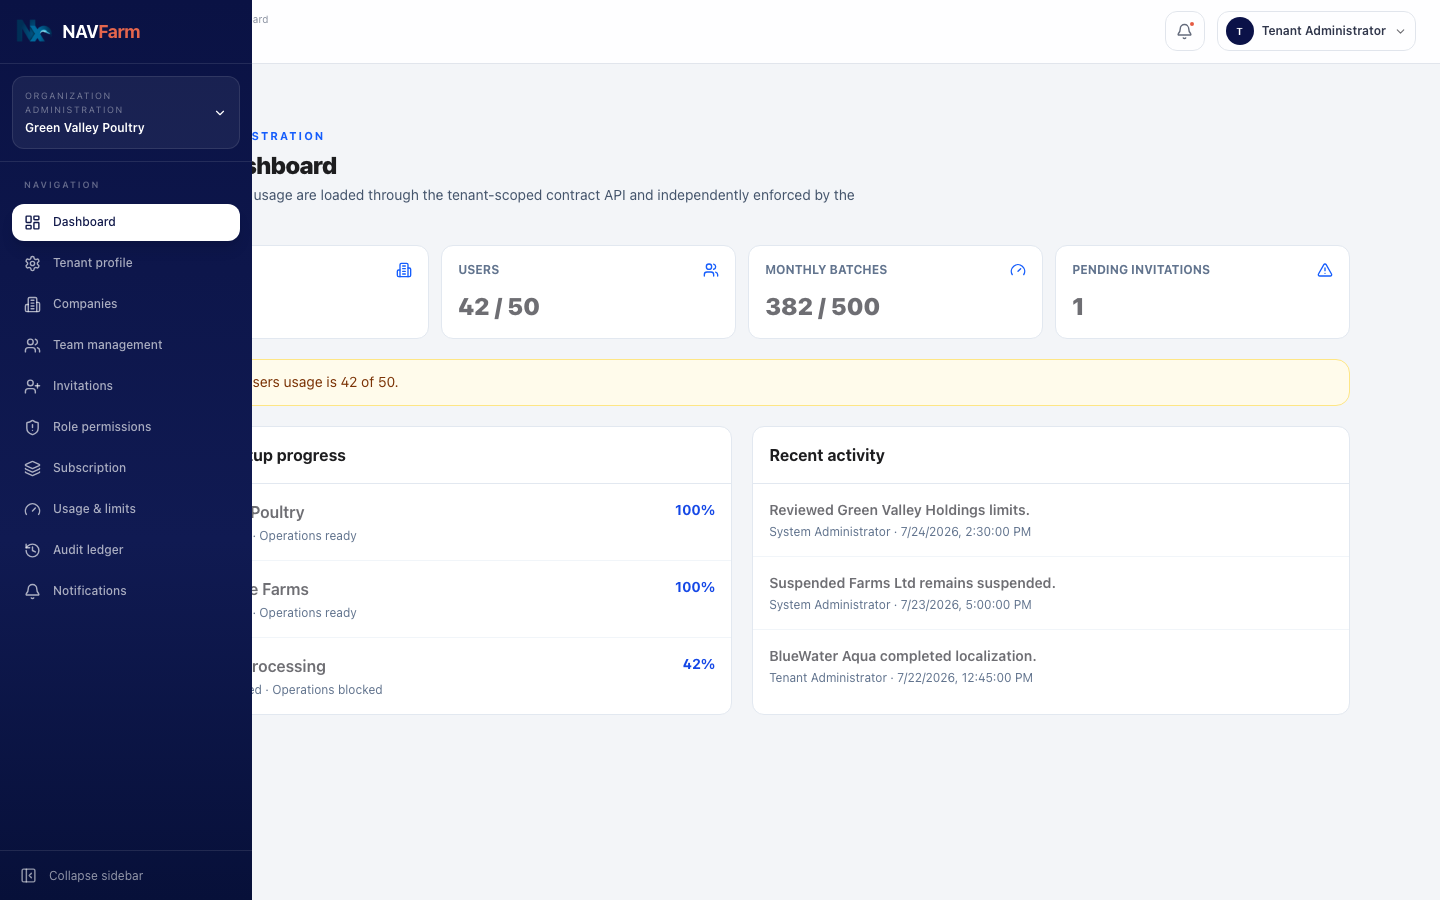
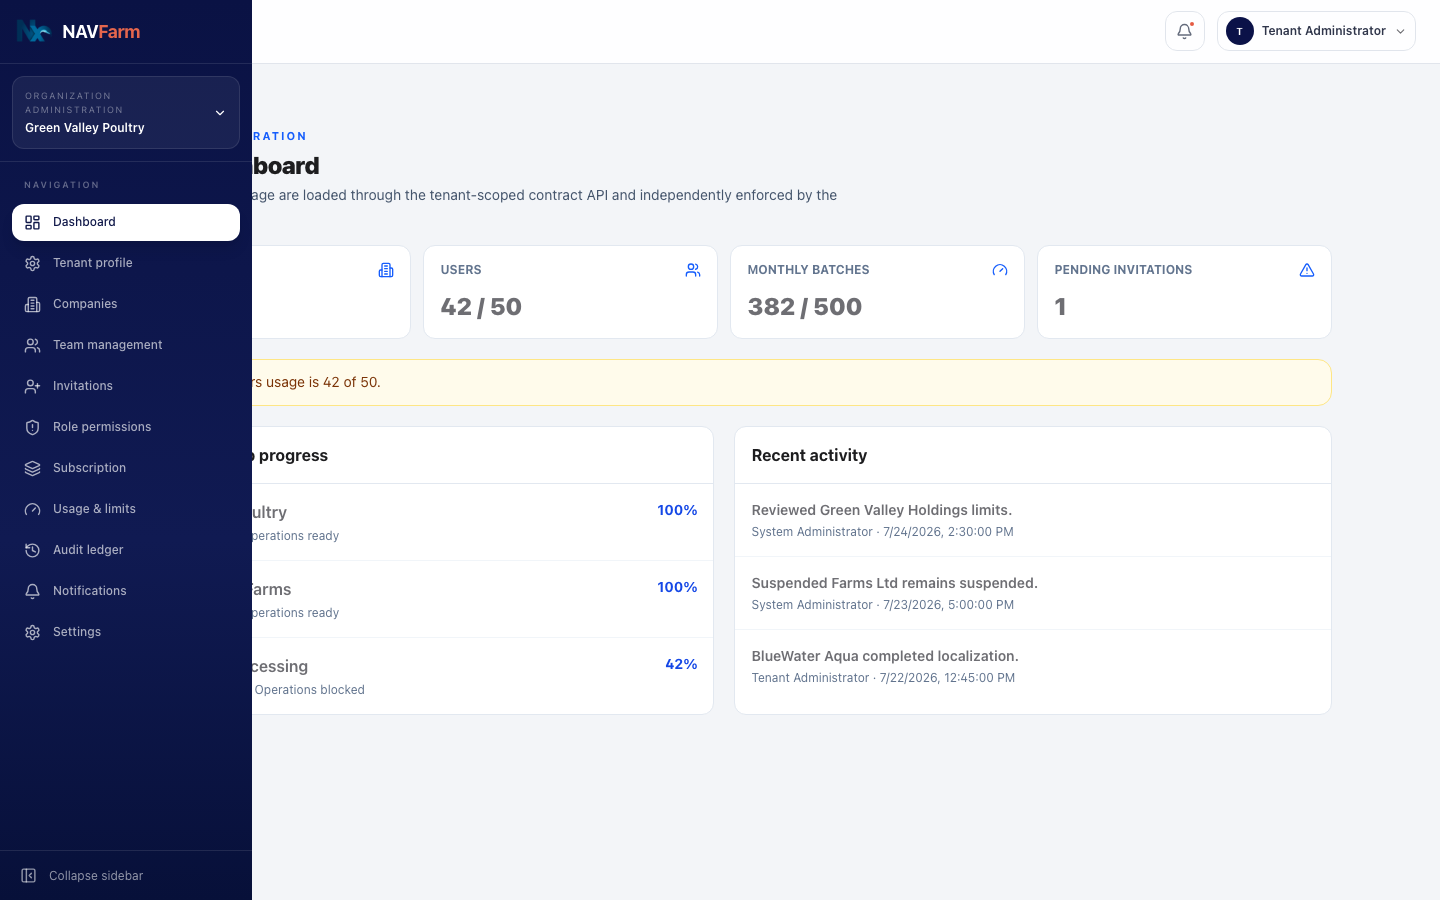
docs(web): complete phase 9.3 scope evidence

diff --git a/docs/api-contract/endpoint-screen-matrix.md b/docs/api-contract/endpoint-screen-matrix.md
@@ -45,10 +45,11 @@ This matrix maps implemented web screens and actions to required API endpoints. 
 | `/{company}/accounting/chart-of-accounts` | COA | `/api/v1/companies/{companyId}/accounting/accounts` | GET/POST/PATCH | `finance.view/manage` | `accountSchema` | `accountSchema[]`/`accountSchema` | Empty tree/errors | `phase3-repository.ts` |
 | `/{company}/accounting/gl-mappings` | GL mappings | `/api/v1/companies/{companyId}/accounting/gl-mappings` | GET/POST/PATCH | `finance.view/manage` | `glMappingSchema` | `glMappingSchema[]`/`glMappingSchema` | Completeness/error cards | `phase3-repository.ts` |
 | `/{company}/accounting/costing` | Costing config | `/api/v1/companies/{companyId}/accounting/costing` | GET/PATCH | `finance.view/manage` | partial `costingConfigurationSchema` | `costingConfigurationSchema` | Warnings for BIO_ASSET | `phase3-repository.ts` |
-| `/{company}/accounting/readiness` | Accounting readiness | `/api/v1/companies/{companyId}/accounting/readiness` | GET | `company.view` | none | `operationsReadinessSchema` | Operations ready/blocked | `phase3-repository.ts` |
+| `/{company}/accounting/readiness` | Company accounting readiness | `/api/v1/companies/{companyId}/accounting/readiness` | GET | `company.view` | none | `operationsReadinessSchema` | Accounting configuration ready/incomplete | `phase3-repository.ts` |
 | `/{company}/workspaces` | List/select workspaces | `/api/v1/tenants/{tenantId}/companies/{companyId}/workspaces` | GET | tenant admin or explicit workspace membership | none | `workspaceSchema[]` | Loading, retry, empty/access state | `mock-repository.ts` |
 | `/{company}/workspaces/new` | Create workspace | `/api/v1/tenants/{tenantId}/companies/{companyId}/workspaces` | POST | `canManageWorkspaces` | `workspaceCreateSchema` | `workspaceSchema` | Field/error/saving states | `mock-repository.ts` |
 | `/{company}/workspaces/{workspace}` | Detail/edit/readiness/members | `/api/v1/companies/{companyId}/workspaces/{workspaceId}`, `/readiness`, `/members` | GET/PATCH/POST | explicit workspace view; tenant admin for mutation | workspace update/member schemas | workspace/readiness/member schemas | Loading, retry, empty members | `mock-repository.ts` |
+| shell context switcher | Select Company administration or a workspace | `/api/v1/auth/context` | PUT | authorized tenant/company/workspace membership | full `{ tenantId, companyId, workspaceId }` tuple; `workspaceId: null` for company mode | `authSessionSchema` | Searchable authorized hierarchy; atomic context change | `mock-repository.ts` |
 | canonical workspace dashboard/batches | Bootstrap/list/create/save/transition | `/api/v1/tenants/{tenantId}/companies/{companyId}/workspaces/{workspaceId}/operational-bootstrap`, `/batches`, `/batches/{batchId}/transitions` | GET/POST/PUT | workspace batch capabilities | operational schemas | operational schemas | Workspace-isolated loading/errors | `operational-repository.ts` |
 | canonical workspace operations/QC/QR | Daily operations, QC disposition, QR packs | same scoped root plus `/operations`, `/quality-lots`, `/qr-packs` | GET/POST/PUT | workspace operation/QC/traceability capabilities | operational schemas | operational schemas | Mutation controls follow workspace role | `operational-repository.ts` |
 | canonical workspace resources/costing/reports | Resources/usages, costing, journals, variances, summary | same scoped root plus `/resources`, `/resource-usages`, `/costing`, `/journals`, `/variances`, `/reports/summary` | GET/POST/PUT | workspace resource/report capabilities | operational schemas | operational schemas | Empty collections and typed errors | `operational-repository.ts` |

diff --git a/docs/api-contract/authorization-matrix.md b/docs/api-contract/authorization-matrix.md
@@ -53,9 +53,9 @@ Current granular permissions:
 
 | Role | Scope | Permissions | Confirmed behavior |
 |---|---|---|---|
-| Company Admin (`ADMIN`) | Company | all company permissions | Used by multi-company and MFA demo users. Company scoped only. |
+| Company Admin (`ADMIN`) | Company | company configuration/accounting defaults | Used by multi-company and MFA demo users. Does not itself grant workspace operations. |
 | Super Admin (`SUPER_ADMIN`) | Company | all company permissions | Used for onboarding admin company setup. |
-| Operations Manager (`FARM_MANAGER`) | Company | `company.view`, `batches.view`, `batches.create`, `batches.approve`, `operations.create`, `costs.view`, `quality.view`, `quality.manage`, `traceability.view`, `resources.view`, `resources.manage`, `reports.export` | Can execute Phase 7 batch/operation/QC/QR/close/report flow in Green Valley. No finance view/manage. |
+| Operations Manager (`FARM_MANAGER`) | Company membership plus assigned workspace | `company.view`; operational permissions are resolved from workspace membership | Can execute the Phase 7 flow only in assigned workspaces. No finance view/manage. |
 | Accountant (`ACCOUNTANT`) | Company | `company.view`, `batches.view`, `costs.view`, `finance.view`, `finance.manage`, `reports.export`, `audit.view` | Used by tenant admin active company membership, but tenant-admin setup rights are tenant-scoped. |
 | Auditor (`AUDITOR`) | Company | `company.view`, `batches.view`, `costs.view`, `finance.view`, `quality.view`, `traceability.view`, `resources.view`, `reports.export`, `audit.view` | Read-oriented access to accounting/masters tests; no create controls. |
 | Supervisor (`SUPERVISOR`) | Company | `company.view`, `batches.view`, `batches.create`, `operations.create`, `quality.view`, `traceability.view`, `resources.view` | Existing role, not a Phase 7.1 demo account. |
@@ -81,6 +81,6 @@ Current granular permissions:
 | Platform | `/admin/*` | Require `SYSTEM_ADMIN`; otherwise 403. |
 | Tenant | `/console/*` | Require active tenant and `tenant.view`. |
 | Company | `/{company}/settings`, `/masters`, `/accounting`, `/setup` | Require active company membership and company configuration capability. |
-| Workspace | `/{company}/workspaces/{workspace}/*` | Require matching tenant/company/workspace membership and active context. |
+| Workspace | `/{company}/workspaces/{workspace}/{dashboard|batches|operations|quality|traceability|resources|costing|reports|masters|settings}` | Require matching tenant/company/workspace membership and active context. |
 | Operational mutations | workspace batch/QC/QR/resources close/write routes | Require the relevant workspace capability; tenant/company administration alone is insufficient. |
 | Configuration mutations | setup, masters, NOB/LOB, accounting config | Require `company.manage` or explicit tenant-admin setup authority. |

diff --git a/docs/permission-matrix.md b/docs/permission-matrix.md
@@ -4,18 +4,13 @@ Navigation is derived from permissions, explicit workspace membership, and enabl
 navigation is only a UX decision; mock mutations separately enforce permission
 checks and a production backend must do the same.
 
-| Role | Batches create/approve | Costs | Finance | User/role admin | Export | Operational entry |
-| --- | --- | --- | --- | --- | --- | --- |
-| System administrator | No implicit workspace access | No implicit workspace access | Platform oversight only | Platform administration | Platform audit | No implicit workspace access |
-| Tenant administrator | Only with workspace role | Only with workspace role | Company configuration | Tenant/company/workspace administration | Audit export | Only with workspace role |
-| Company super administrator | Yes / Yes | Yes | Full | Full | Yes | Yes |
-| Company administrator | Yes / Yes | Yes | Full | Full except immutable super admin | Yes | Yes |
-| Farm manager | Yes / Yes | Own farms | No | No | Yes | Yes |
-| Accountant | No / No | All | Full | No | Yes | No |
-| Auditor | No / No | Read-only | Read-only | No | Yes | No |
-| Supervisor | Yes / No | Hidden | No | No | No | Yes |
-| Viewer | No / No | Hidden | No | No | No | No |
-| Custom | Granted | Granted | Granted | Granted | Granted | Granted |
+| Identity | Company configuration | Company accounting | Workspace operations |
+| --- | --- | --- | --- |
+| System administrator | Platform oversight only | No implicit company authority | No implicit workspace access |
+| Tenant administrator | Tenant, company, workspace and membership management | Per documented company configuration rule | Only with an explicit workspace role |
+| Company administrator roles | According to company permissions | According to `finance.view/manage` | No automatic access; requires workspace membership |
+| Workspace Manager | No implicit company configuration | No implicit company accounting | Assigned workspace capabilities, including permitted mutations |
+| Workspace Viewer | No implicit company configuration | No implicit company accounting | Assigned workspace read capabilities only |
 
 ## Phase 3 configuration access
 
@@ -43,6 +38,11 @@ require `finance.view` or `company.manage`; accounting mutations require
 `company.manage` is configuration authority and never grants these operational
 capabilities. Switching company clears workspace context; switching workspace
 changes the operational partition.
+
+Navigation and mutations use the same resolver: company permissions are read
+from the active company membership, while operational permissions are read
+only from the active workspace membership. `workspaceType`, enabled modules and
+that permission set jointly filter workspace navigation.
 
 Canonical permission identifiers are defined in
 `apps/web/src/contracts/api.ts`; role defaults and permission evaluation are in

diff --git a/docs/frontend-route-map.md b/docs/frontend-route-map.md
@@ -29,7 +29,9 @@
   `/console/companies/new`, `/console/companies/{companyId}`, `/console/users`,
   `/console/invitations`, `/console/roles`, `/console/subscription`,
   `/console/usage`, `/console/audit`, `/console/notifications`.
-- Company configuration: `/settings`, `/settings/{section}`, `/{company}/setup/{step}`,
+- Company administration: `/{company}/overview`, `/{company}/workspaces`,
+  `/{company}/setup`, `/{company}/members`, `/{company}/readiness`,
+  `/{company}/settings`, `/{company}/settings/{section}`, `/{company}/setup/{step}`,
   `/{company}/masters`, `/{company}/masters/{resource}`,
   `/{company}/masters/{resource}/import`,
   `/{company}/settings/business-structure`,
@@ -39,7 +41,7 @@
 - Workspace administration: `/{company}/workspaces`,
   `/{company}/workspaces/new`, and `/{company}/workspaces/{workspace}`.
 - Canonical workspace operations:
-  `/{company}/workspaces/{workspace}/{dashboard|batches|operations|quality|traceability|resources|costing|reports}`.
+  `/{company}/workspaces/{workspace}/{dashboard|batches|operations|quality|traceability|resources|costing|reports|masters|settings}`.
 
 Company setup step routes are `profile`, `address`, `contacts`,
 `localization`, `accounting`, `modules`, `admin`, `team`, `chart-of-accounts`,
@@ -49,11 +51,18 @@ Compatibility redirects: `/operator` -> `/admin/masters`; `/organization` and
 `/tenant-admin` -> `/console/dashboard`; `/admin` and `/console` redirect to
 their dashboards.
 
-Legacy company operational routes `/{company}/{dashboard|batches|operations|quality|traceability|resources|costing|reports}`
+`/{company}/dashboard` redirects to the canonical company administration
+overview at `/{company}/overview`. Other legacy company operational routes
+`/{company}/{batches|operations|quality|traceability|resources|costing|reports}`
 are resolvers only. One accessible workspace redirects to its canonical route,
 multiple accessible workspaces redirect to `/{company}/workspaces`, and no
 accessible workspace renders an explicit setup/access state. They never infer
 a workspace from stale browser state.
+
+The shell has distinct platform, tenant, company-administration and workspace
+navigation models. Company mode never renders operational navigation. Workspace
+mode is derived only from a canonical workspace URL plus the matching active
+workspace membership.
 
 The static `masters/nobs` and `masters/lobs` routes open the company
 business-structure workspace. Unknown master resources return 404.

diff --git a/docs/demo-account-scenarios.md b/docs/demo-account-scenarios.md
@@ -8,7 +8,7 @@ All accounts below use `Demo123!`. They exist only when `NAVFARM_API_MODE=mock`;
 | `tenant@navfarm.demo` | Tenant console, two companies, company/workspace setup and accounting configuration; no workspace membership or operational mutation permission. |
 | `manager@navfarm.demo` | Green Valley Poultry → Poultry Operations workspace: batches, operations, QC, QR, resources and reports. |
 | `viewer@navfarm.demo` | Green Valley → Poultry Operations view-only workspace; create/manage controls and workspace mutation API calls are denied. |
-| `multi@navfarm.demo` | Explicit membership across three companies and four workspaces; Green Valley contains Poultry Operations and Feed Mill. Context persists in the server session. |
+| `multi@navfarm.demo` | Explicit company selection followed by workspace selection. Green Valley contains Poultry Operations and Feed Mill; the hierarchical switcher can return to Company administration and changing company clears the old workspace. |
 | `mfa@navfarm.demo` | MFA verification before any application session; completion returns Poultry Operations membership/context. Code: `123456`; recovery: `NAVFARM-RECOVERY`. |
 | `suspended@navfarm.demo` | Suspended-tenant access-denied page with sign-out only. |
 | `onboarding@navfarm.demo` | BlueWater profile setup; direct operational routes return to setup review until operational readiness is met. |
@@ -19,3 +19,5 @@ Operational mock state is partitioned by the complete tenant/company/workspace
 scope. Green Valley's Poultry Operations and Feed Mill workspaces cannot see or
 mutate each other's operational records. Tenant Admin can create/edit
 workspaces and assign members without receiving an operational membership.
+Company administration navigation never exposes Batches, Operations, Quality,
+Traceability, Resources, Costing or workspace Reports.

diff --git a/docs/api-contract/company-workspace-alignment-review.md b/docs/api-contract/company-workspace-alignment-review.md
@@ -10,7 +10,9 @@ The Phase 7 demo used company as both legal entity and operational data partitio
 - Tenant Admin configures companies and workspaces but has no implicit operational workspace membership.
 - Operational roles are assigned per workspace.
 - Canonical frontend routes include both company and workspace slugs.
-- Company-only routes are compatibility surfaces, not the future API shape.
+- Company administration routes are canonical for legal entity configuration,
+  shared masters, accounting, memberships and readiness. Only old
+  company-only operational routes are compatibility resolvers.
 - Platform reference masters remain platform-scoped; company and workspace masters cannot be intercepted by that namespace.
 
 ## Migration impact for Arun
@@ -23,3 +25,13 @@ The Phase 7 demo used company as both legal entity and operational data partitio
 6. Implement optimistic concurrency, idempotency and the existing v1.0 error envelope.
 
 No database or NestJS implementation is included in this frontend phase.
+
+## Phase 9.3 shell alignment
+
+- `/{company}/overview` is the canonical company landing route;
+  `/{company}/dashboard` redirects there.
+- The context switcher represents Tenant → Company administration → authorized
+  Workspaces and updates the full server-side context tuple.
+- Company navigation and workspace navigation are separate registries.
+- Workspace presentation is centralized by DTO workspace type and enabled
+  modules without changing identifiers or permission rules.

diff --git a/docs/authentication-flow.md b/docs/authentication-flow.md
@@ -12,9 +12,15 @@
    - multiple unresolved memberships -> context selection;
    - suspended/inactive/no access -> access-denied;
    - incomplete mandatory setup -> onboarding;
-   - otherwise -> company dashboard or tenant console.
-6. Context changes call `PUT /api/v1/auth/context`; tenant/company identity is
-   held in the server session, never localStorage.
+   - Tenant Admin -> tenant console;
+   - one assigned operational workspace -> its canonical workspace dashboard;
+   - unresolved company/workspace membership -> explicit selection;
+   - company administration selection -> `/{company}/overview`.
+6. Context changes call `PUT /api/v1/auth/context`; tenant/company/workspace
+   identity is held in the server session, never localStorage. Selecting
+   Company administration sends `workspaceId: null`. Selecting a workspace
+   sends the complete tenant/company/workspace tuple atomically. Changing
+   company always clears the previous workspace.
 7. Logout calls `POST /api/v1/auth/logout`, invalidates server state, and
    expires the cookie.
 

diff --git a/docs/api-contract/unresolved-product-decisions.md b/docs/api-contract/unresolved-product-decisions.md
@@ -15,6 +15,22 @@ Unresolved:
 - Whether accounting readiness is strictly required for all operational writes or only for close/finalization.
 - Whether some LOBs may operate without Finance enabled.
 
+## Workspace-specific terminology
+
+Known:
+
+- The presentation registry supports `POULTRY`, `AGRICULTURE`, `PIGGERY`,
+  `DAIRY`, `AQUACULTURE`, `FEED_PROCESSING`, and `OTHER`.
+- Registry labels and module availability do not change DTO identity or
+  authorization.
+
+Unresolved:
+
+- Approved industry-specific names beyond the neutral “Production cycles” and
+  existing poultry “Batches” wording.
+- Whether individual workspace types require additional navigation modules or
+  specialized readiness rules.
+
 ## Mandatory Onboarding Steps
 
 Known:
@@ -105,4 +121,3 @@ Unresolved:
 - Whether costing snapshots are continuously authoritative before close.
 - Whether variance generation happens at close, period close or both.
 - BIO_ASSET valuation policy and measurement timing.
-
